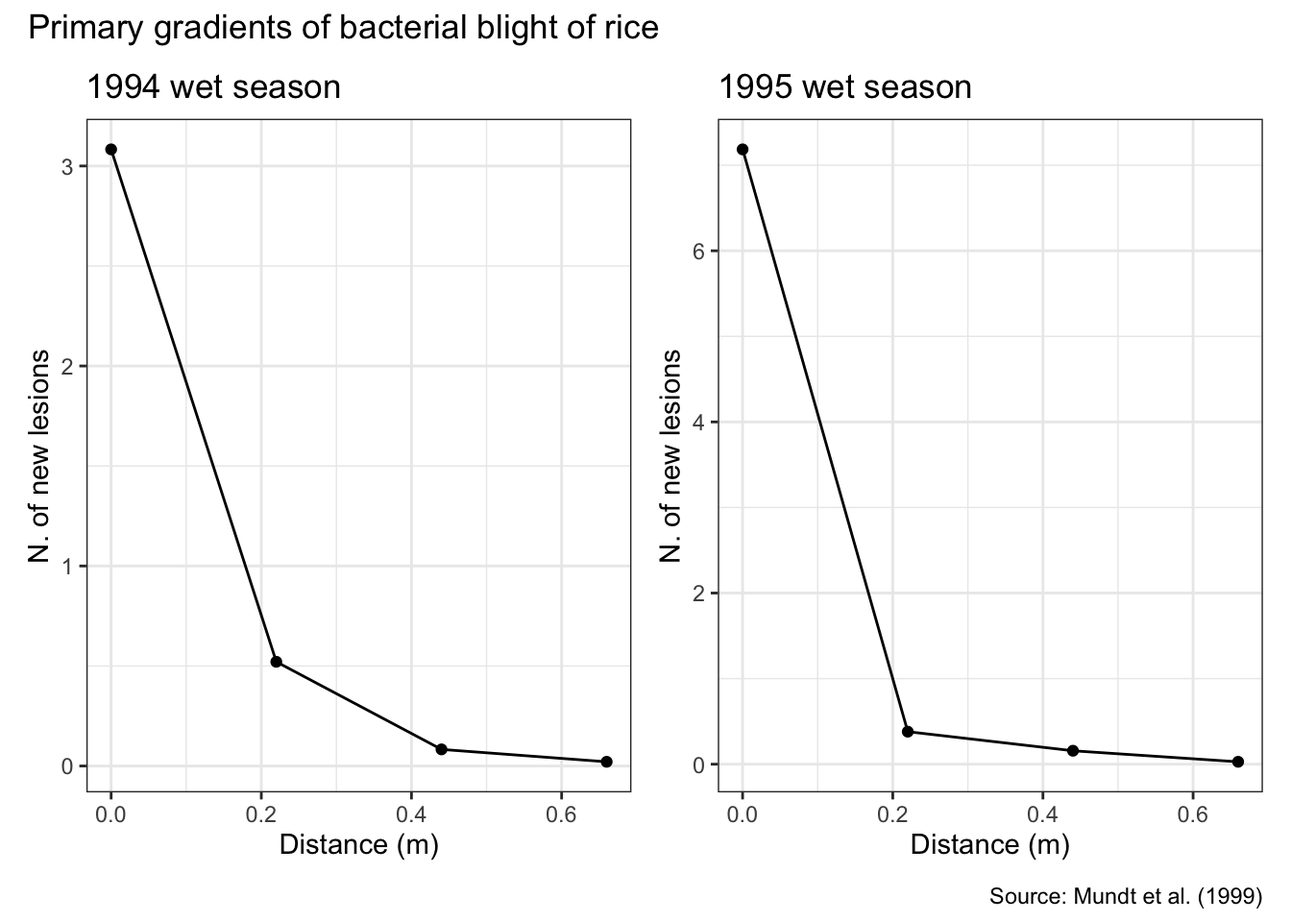
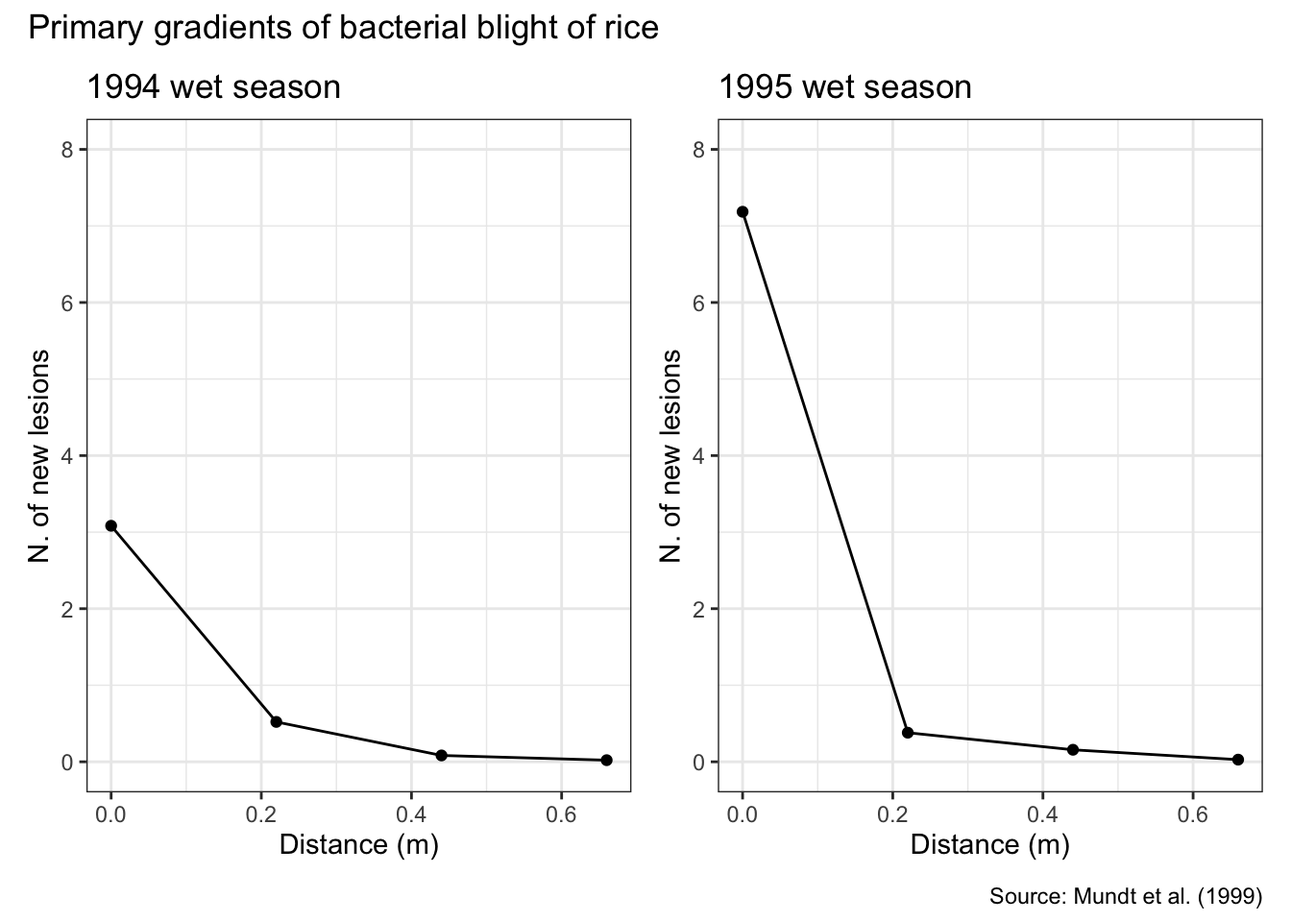
format code

diff --git a/_book/spatial-gradients.html b/_book/spatial-gradients.html
@@ -356,49 +356,52 @@ gtag('config', 'G-5T7SZYQV79', { 'anonymize_ip': true});
 <span id="cb1-9"><a href="#cb1-9" aria-hidden="true" tabindex="-1"></a>  <span class="fu">ggplot</span>(<span class="fu">aes</span>(d, y4))<span class="sc">+</span></span>
 <span id="cb1-10"><a href="#cb1-10" aria-hidden="true" tabindex="-1"></a>  <span class="fu">geom_point</span>()<span class="sc">+</span></span>
 <span id="cb1-11"><a href="#cb1-11" aria-hidden="true" tabindex="-1"></a>  <span class="fu">geom_line</span>()<span class="sc">+</span></span>
-<span id="cb1-12"><a href="#cb1-12" aria-hidden="true" tabindex="-1"></a>  <span class="fu">labs</span>(<span class="at">y =</span> <span class="st">"N. of new lesions"</span>,</span>
-<span id="cb1-13"><a href="#cb1-13" aria-hidden="true" tabindex="-1"></a>       <span class="at">x =</span> <span class="st">"Distance (m)"</span>,</span>
-<span id="cb1-14"><a href="#cb1-14" aria-hidden="true" tabindex="-1"></a>       <span class="at">title =</span> <span class="st">"1994 wet season"</span>)</span>
-<span id="cb1-15"><a href="#cb1-15" aria-hidden="true" tabindex="-1"></a></span>
-<span id="cb1-16"><a href="#cb1-16" aria-hidden="true" tabindex="-1"></a>g2 <span class="ot">&lt;-</span> xo <span class="sc">|&gt;</span> </span>
-<span id="cb1-17"><a href="#cb1-17" aria-hidden="true" tabindex="-1"></a>  <span class="fu">ggplot</span>(<span class="fu">aes</span>(d, y5))<span class="sc">+</span></span>
-<span id="cb1-18"><a href="#cb1-18" aria-hidden="true" tabindex="-1"></a>  <span class="fu">geom_point</span>()<span class="sc">+</span></span>
-<span id="cb1-19"><a href="#cb1-19" aria-hidden="true" tabindex="-1"></a>  <span class="fu">geom_line</span>()<span class="sc">+</span></span>
-<span id="cb1-20"><a href="#cb1-20" aria-hidden="true" tabindex="-1"></a>  <span class="fu">labs</span>(<span class="at">y =</span> <span class="st">"N. of new lesions"</span>,</span>
-<span id="cb1-21"><a href="#cb1-21" aria-hidden="true" tabindex="-1"></a>       <span class="at">x =</span> <span class="st">"Distance (m)"</span>,</span>
-<span id="cb1-22"><a href="#cb1-22" aria-hidden="true" tabindex="-1"></a>       <span class="at">title =</span> <span class="st">"1995 wet season"</span>)</span>
-<span id="cb1-23"><a href="#cb1-23" aria-hidden="true" tabindex="-1"></a></span>
-<span id="cb1-24"><a href="#cb1-24" aria-hidden="true" tabindex="-1"></a><span class="fu">library</span>(patchwork)</span>
-<span id="cb1-25"><a href="#cb1-25" aria-hidden="true" tabindex="-1"></a>(g1 <span class="sc">|</span> g2) <span class="sc">+</span>  <span class="fu">plot_annotation</span>(</span>
-<span id="cb1-26"><a href="#cb1-26" aria-hidden="true" tabindex="-1"></a>  <span class="at">title =</span> <span class="st">'Primary gradients of bacterial blight of rice'</span>,</span>
-<span id="cb1-27"><a href="#cb1-27" aria-hidden="true" tabindex="-1"></a>  <span class="at">caption =</span> <span class="st">"Source: Mundt et al. (1999)"</span>)</span></code><button title="Copy to Clipboard" class="code-copy-button"><i class="bi"></i></button></pre></div>
+<span id="cb1-12"><a href="#cb1-12" aria-hidden="true" tabindex="-1"></a>  <span class="fu">ylim</span>(<span class="dv">0</span>,<span class="dv">8</span>)<span class="sc">+</span></span>
+<span id="cb1-13"><a href="#cb1-13" aria-hidden="true" tabindex="-1"></a>  <span class="fu">labs</span>(<span class="at">y =</span> <span class="st">"N. of new lesions"</span>,</span>
+<span id="cb1-14"><a href="#cb1-14" aria-hidden="true" tabindex="-1"></a>       <span class="at">x =</span> <span class="st">"Distance (m)"</span>,</span>
+<span id="cb1-15"><a href="#cb1-15" aria-hidden="true" tabindex="-1"></a>       <span class="at">title =</span> <span class="st">"1994 wet season"</span>)</span>
+<span id="cb1-16"><a href="#cb1-16" aria-hidden="true" tabindex="-1"></a></span>
+<span id="cb1-17"><a href="#cb1-17" aria-hidden="true" tabindex="-1"></a>g2 <span class="ot">&lt;-</span> xo <span class="sc">|&gt;</span> </span>
+<span id="cb1-18"><a href="#cb1-18" aria-hidden="true" tabindex="-1"></a>  <span class="fu">ggplot</span>(<span class="fu">aes</span>(d, y5))<span class="sc">+</span></span>
+<span id="cb1-19"><a href="#cb1-19" aria-hidden="true" tabindex="-1"></a>  <span class="fu">geom_point</span>()<span class="sc">+</span></span>
+<span id="cb1-20"><a href="#cb1-20" aria-hidden="true" tabindex="-1"></a>  <span class="fu">geom_line</span>()<span class="sc">+</span></span>
+<span id="cb1-21"><a href="#cb1-21" aria-hidden="true" tabindex="-1"></a>   <span class="fu">ylim</span>(<span class="dv">0</span>,<span class="dv">8</span>)<span class="sc">+</span></span>
+<span id="cb1-22"><a href="#cb1-22" aria-hidden="true" tabindex="-1"></a>  <span class="fu">labs</span>(<span class="at">y =</span> <span class="st">"N. of new lesions"</span>,</span>
+<span id="cb1-23"><a href="#cb1-23" aria-hidden="true" tabindex="-1"></a>       <span class="at">x =</span> <span class="st">"Distance (m)"</span>,</span>
+<span id="cb1-24"><a href="#cb1-24" aria-hidden="true" tabindex="-1"></a>       <span class="at">title =</span> <span class="st">"1995 wet season"</span>)</span>
+<span id="cb1-25"><a href="#cb1-25" aria-hidden="true" tabindex="-1"></a></span>
+<span id="cb1-26"><a href="#cb1-26" aria-hidden="true" tabindex="-1"></a><span class="fu">library</span>(patchwork)</span>
+<span id="cb1-27"><a href="#cb1-27" aria-hidden="true" tabindex="-1"></a>(g1 <span class="sc">|</span> g2) <span class="sc">+</span>  <span class="fu">plot_annotation</span>(</span>
+<span id="cb1-28"><a href="#cb1-28" aria-hidden="true" tabindex="-1"></a>  <span class="at">title =</span> <span class="st">'Primary gradients of bacterial blight of rice'</span>,</span>
+<span id="cb1-29"><a href="#cb1-29" aria-hidden="true" tabindex="-1"></a>  <span class="at">caption =</span> <span class="st">"Source: Mundt et al. (1999)"</span>)</span></code><button title="Copy to Clipboard" class="code-copy-button"><i class="bi"></i></button></pre></div>
 <div class="cell-output-display">
 <p><img src="spatial-gradients_files/figure-html/unnamed-chunk-2-1.png" class="img-fluid" width="672"></p>
 </div>
 </div>
 <p>The second gradient is of stripe rust, caused by <em>Puccinia striiformis</em> f.&nbsp;sp. <em>tritici,</em> on wheat collected in a field experiment at Hermiston in 2002 <span class="citation" data-cites="Sackett2005">(<a href="references.html#ref-Sackett2005" role="doc-biblioref">Sackett and Mundt 2005</a>)</span> and whose data was made freely available <span class="citation" data-cites="mikaberidze2015">(<a href="references.html#ref-mikaberidze2015" role="doc-biblioref">Mikaberidze et al. 2015</a>)</span>. Let’s enter data manually as a tibble format. There are five columns. The first and second are distances in feet and meters, respectively, from the source of infection. The other three columns are measures of stripe rust severity on replicated plots.</p>
 <div class="cell">
-<div class="sourceCode cell-code" id="cb2"><pre class="sourceCode r code-with-copy"><code class="sourceCode r"><span id="cb2-1"><a href="#cb2-1" aria-hidden="true" tabindex="-1"></a>hermiston <span class="ot">&lt;-</span> tibble<span class="sc">::</span><span class="fu">tribble</span>(</span>
-<span id="cb2-2"><a href="#cb2-2" aria-hidden="true" tabindex="-1"></a>               <span class="sc">~</span>dist_f, <span class="sc">~</span>dist_m,  <span class="sc">~</span><span class="st">`</span><span class="at">1</span><span class="st">`</span>,  <span class="sc">~</span><span class="st">`</span><span class="at">2</span><span class="st">`</span>,  <span class="sc">~</span><span class="st">`</span><span class="at">3</span><span class="st">`</span>,</span>
-<span id="cb2-3"><a href="#cb2-3" aria-hidden="true" tabindex="-1"></a>                    0L,       <span class="dv">0</span>,    <span class="dv">65</span>,    <span class="dv">65</span>,    <span class="dv">39</span>,</span>
-<span id="cb2-4"><a href="#cb2-4" aria-hidden="true" tabindex="-1"></a>                    5L,     <span class="fl">1.5</span>,    <span class="dv">35</span>,    <span class="dv">44</span>,   <span class="fl">7.5</span>,</span>
-<span id="cb2-5"><a href="#cb2-5" aria-hidden="true" tabindex="-1"></a>                   10L,       <span class="dv">3</span>,  <span class="fl">21.5</span>,  <span class="fl">14.5</span>,  <span class="fl">1.75</span>,</span>
-<span id="cb2-6"><a href="#cb2-6" aria-hidden="true" tabindex="-1"></a>                   20L,     <span class="fl">6.1</span>,     <span class="dv">8</span>,  <span class="fl">0.75</span>,   <span class="fl">0.2</span>,</span>
-<span id="cb2-7"><a href="#cb2-7" aria-hidden="true" tabindex="-1"></a>                   40L,    <span class="fl">12.2</span>,     <span class="dv">1</span>,  <span class="fl">0.08</span>, <span class="fl">0.025</span>,</span>
-<span id="cb2-8"><a href="#cb2-8" aria-hidden="true" tabindex="-1"></a>                   60L,    <span class="fl">18.3</span>,  <span class="fl">0.25</span>, <span class="fl">0.026</span>, <span class="fl">0.015</span>,</span>
-<span id="cb2-9"><a href="#cb2-9" aria-hidden="true" tabindex="-1"></a>                   80L,    <span class="fl">24.4</span>, <span class="fl">0.035</span>, <span class="fl">0.015</span>, <span class="fl">0.009</span>,</span>
-<span id="cb2-10"><a href="#cb2-10" aria-hidden="true" tabindex="-1"></a>                  100L,    <span class="fl">30.5</span>,  <span class="fl">0.01</span>, <span class="fl">0.003</span>, <span class="fl">0.008</span>,</span>
-<span id="cb2-11"><a href="#cb2-11" aria-hidden="true" tabindex="-1"></a>                  120L,    <span class="fl">36.6</span>, <span class="fl">0.008</span>, <span class="fl">0.016</span>,  <span class="fl">0.01</span>,</span>
-<span id="cb2-12"><a href="#cb2-12" aria-hidden="true" tabindex="-1"></a>                  140L,    <span class="fl">42.7</span>, <span class="fl">0.003</span>, <span class="fl">0.003</span>,  <span class="fl">0.01</span>,</span>
-<span id="cb2-13"><a href="#cb2-13" aria-hidden="true" tabindex="-1"></a>                  160L,    <span class="fl">48.8</span>, <span class="fl">0.001</span>, <span class="fl">0.006</span>, <span class="fl">0.006</span>,</span>
-<span id="cb2-14"><a href="#cb2-14" aria-hidden="true" tabindex="-1"></a>                  180L,    <span class="fl">54.9</span>, <span class="fl">0.001</span>, <span class="fl">0.002</span>, <span class="fl">0.002</span>,</span>
-<span id="cb2-15"><a href="#cb2-15" aria-hidden="true" tabindex="-1"></a>                  200L,      <span class="dv">61</span>, <span class="fl">0.001</span>, <span class="fl">0.003</span>, <span class="fl">0.004</span>,</span>
-<span id="cb2-16"><a href="#cb2-16" aria-hidden="true" tabindex="-1"></a>                  220L,    <span class="fl">67.1</span>, <span class="fl">0.001</span>, <span class="fl">0.003</span>, <span class="fl">0.002</span>,</span>
-<span id="cb2-17"><a href="#cb2-17" aria-hidden="true" tabindex="-1"></a>                  240L,    <span class="fl">73.2</span>, <span class="fl">0.001</span>, <span class="fl">0.001</span>,     <span class="dv">0</span>,</span>
-<span id="cb2-18"><a href="#cb2-18" aria-hidden="true" tabindex="-1"></a>                  260L,    <span class="fl">79.2</span>, <span class="fl">0.001</span>, <span class="fl">0.002</span>,     <span class="dv">0</span>,</span>
-<span id="cb2-19"><a href="#cb2-19" aria-hidden="true" tabindex="-1"></a>                  280L,    <span class="fl">85.3</span>, <span class="fl">0.001</span>, <span class="fl">0.001</span>,     <span class="dv">0</span>,</span>
-<span id="cb2-20"><a href="#cb2-20" aria-hidden="true" tabindex="-1"></a>                  300L,    <span class="fl">91.4</span>, <span class="fl">0.001</span>, <span class="fl">0.001</span>, <span class="fl">0.001</span></span>
-<span id="cb2-21"><a href="#cb2-21" aria-hidden="true" tabindex="-1"></a>               )</span></code><button title="Copy to Clipboard" class="code-copy-button"><i class="bi"></i></button></pre></div>
+<div class="sourceCode cell-code" id="cb2"><pre class="sourceCode r code-with-copy"><code class="sourceCode r"><span id="cb2-1"><a href="#cb2-1" aria-hidden="true" tabindex="-1"></a>hermiston <span class="ot">&lt;-</span> </span>
+<span id="cb2-2"><a href="#cb2-2" aria-hidden="true" tabindex="-1"></a>  tibble<span class="sc">::</span><span class="fu">tribble</span>(</span>
+<span id="cb2-3"><a href="#cb2-3" aria-hidden="true" tabindex="-1"></a>  <span class="sc">~</span>dist_f, <span class="sc">~</span>dist_m,  <span class="sc">~</span><span class="st">`</span><span class="at">1</span><span class="st">`</span>,  <span class="sc">~</span><span class="st">`</span><span class="at">2</span><span class="st">`</span>,  <span class="sc">~</span><span class="st">`</span><span class="at">3</span><span class="st">`</span>,</span>
+<span id="cb2-4"><a href="#cb2-4" aria-hidden="true" tabindex="-1"></a>  <span class="dv">0</span>,       <span class="dv">0</span>,    <span class="dv">65</span>,    <span class="dv">65</span>,    <span class="dv">39</span>,</span>
+<span id="cb2-5"><a href="#cb2-5" aria-hidden="true" tabindex="-1"></a>  <span class="dv">5</span>,     <span class="fl">1.5</span>,    <span class="dv">35</span>,    <span class="dv">44</span>,   <span class="fl">7.5</span>,</span>
+<span id="cb2-6"><a href="#cb2-6" aria-hidden="true" tabindex="-1"></a>  <span class="dv">10</span>,       <span class="dv">3</span>,  <span class="fl">21.5</span>,  <span class="fl">14.5</span>,  <span class="fl">1.75</span>,</span>
+<span id="cb2-7"><a href="#cb2-7" aria-hidden="true" tabindex="-1"></a>  <span class="dv">20</span>,     <span class="fl">6.1</span>,     <span class="dv">8</span>,  <span class="fl">0.75</span>,   <span class="fl">0.2</span>,</span>
+<span id="cb2-8"><a href="#cb2-8" aria-hidden="true" tabindex="-1"></a>  <span class="dv">40</span>,    <span class="fl">12.2</span>,     <span class="dv">1</span>,  <span class="fl">0.08</span>, <span class="fl">0.025</span>,</span>
+<span id="cb2-9"><a href="#cb2-9" aria-hidden="true" tabindex="-1"></a>  <span class="dv">60</span>,    <span class="fl">18.3</span>,  <span class="fl">0.25</span>, <span class="fl">0.026</span>, <span class="fl">0.015</span>,</span>
+<span id="cb2-10"><a href="#cb2-10" aria-hidden="true" tabindex="-1"></a>  <span class="dv">80</span>,    <span class="fl">24.4</span>, <span class="fl">0.035</span>, <span class="fl">0.015</span>, <span class="fl">0.009</span>,</span>
+<span id="cb2-11"><a href="#cb2-11" aria-hidden="true" tabindex="-1"></a>  <span class="dv">100</span>,    <span class="fl">30.5</span>,  <span class="fl">0.01</span>, <span class="fl">0.003</span>, <span class="fl">0.008</span>,</span>
+<span id="cb2-12"><a href="#cb2-12" aria-hidden="true" tabindex="-1"></a>  <span class="dv">120</span>,    <span class="fl">36.6</span>, <span class="fl">0.008</span>, <span class="fl">0.016</span>,  <span class="fl">0.01</span>,</span>
+<span id="cb2-13"><a href="#cb2-13" aria-hidden="true" tabindex="-1"></a>  <span class="dv">140</span>,    <span class="fl">42.7</span>, <span class="fl">0.003</span>, <span class="fl">0.003</span>,  <span class="fl">0.01</span>,</span>
+<span id="cb2-14"><a href="#cb2-14" aria-hidden="true" tabindex="-1"></a>  <span class="dv">160</span>,    <span class="fl">48.8</span>, <span class="fl">0.001</span>, <span class="fl">0.006</span>, <span class="fl">0.006</span>,</span>
+<span id="cb2-15"><a href="#cb2-15" aria-hidden="true" tabindex="-1"></a>  <span class="dv">180</span>,    <span class="fl">54.9</span>, <span class="fl">0.001</span>, <span class="fl">0.002</span>, <span class="fl">0.002</span>,</span>
+<span id="cb2-16"><a href="#cb2-16" aria-hidden="true" tabindex="-1"></a>  <span class="dv">200</span>,      <span class="dv">61</span>, <span class="fl">0.001</span>, <span class="fl">0.003</span>, <span class="fl">0.004</span>,</span>
+<span id="cb2-17"><a href="#cb2-17" aria-hidden="true" tabindex="-1"></a>  <span class="dv">220</span>,    <span class="fl">67.1</span>, <span class="fl">0.001</span>, <span class="fl">0.003</span>, <span class="fl">0.002</span>,</span>
+<span id="cb2-18"><a href="#cb2-18" aria-hidden="true" tabindex="-1"></a>  <span class="dv">240</span>,    <span class="fl">73.2</span>, <span class="fl">0.001</span>, <span class="fl">0.001</span>,     <span class="dv">0</span>,</span>
+<span id="cb2-19"><a href="#cb2-19" aria-hidden="true" tabindex="-1"></a>  <span class="dv">260</span>,    <span class="fl">79.2</span>, <span class="fl">0.001</span>, <span class="fl">0.002</span>,     <span class="dv">0</span>,</span>
+<span id="cb2-20"><a href="#cb2-20" aria-hidden="true" tabindex="-1"></a>  <span class="dv">280</span>,    <span class="fl">85.3</span>, <span class="fl">0.001</span>, <span class="fl">0.001</span>,     <span class="dv">0</span>,</span>
+<span id="cb2-21"><a href="#cb2-21" aria-hidden="true" tabindex="-1"></a>  <span class="dv">300</span>,    <span class="fl">91.4</span>, <span class="fl">0.001</span>, <span class="fl">0.001</span>, <span class="fl">0.001</span></span>
+<span id="cb2-22"><a href="#cb2-22" aria-hidden="true" tabindex="-1"></a>  )</span></code><button title="Copy to Clipboard" class="code-copy-button"><i class="bi"></i></button></pre></div>
 </div>
 <div class="cell">
 <div class="sourceCode cell-code" id="cb3"><pre class="sourceCode r code-with-copy"><code class="sourceCode r"><span id="cb3-1"><a href="#cb3-1" aria-hidden="true" tabindex="-1"></a><span class="fu">library</span>(tidyverse)</span>
@@ -499,38 +502,39 @@ gtag('config', 'G-5T7SZYQV79', { 'anonymize_ip': true});
 <p>The resulting gradients can be classified in two types: primary or secondary. The primary gradient originates only from the initial focus, while the secondary gradient originates from the movement of inoculum produced at previously infected (due to primary gradients) plants to other plants at increasing distances from the source. It is expected that a mix of both kinds of gradients exists as the disease increases over time.</p>
 <p>As an example of primary and secondary gradients, let’s visualize the gradients of Septoria leaf spot, caused by <em>Septoria lycopersici</em>, on tomato <span class="citation" data-cites="parker1997">(<a href="references.html#ref-parker1997" role="doc-biblioref">Parker et al. 1997</a>)</span>. The gradients were measured during two times, thus enabling a comparison of primary and secondary dispersal/disease gradients. More details of the study and experimental approach were provided in <a href="https://www.apsnet.org/edcenter/disimpactmngmnt/topc/EcologyAndEpidemiologyInR/ModelingDispersalGradients/Pages/PrimaryandSecondaryGradients.aspx">this tutorial.</a> The data is entered below as a tribble and the plot produced using g<em>gplot2</em>.</p>
 <div class="cell">
-<div class="sourceCode cell-code" id="cb5"><pre class="sourceCode r code-with-copy"><code class="sourceCode r"><span id="cb5-1"><a href="#cb5-1" aria-hidden="true" tabindex="-1"></a>septoria <span class="ot">&lt;-</span> tibble<span class="sc">::</span><span class="fu">tribble</span>(</span>
-<span id="cb5-2"><a href="#cb5-2" aria-hidden="true" tabindex="-1"></a>                <span class="sc">~</span>d, <span class="sc">~</span>date1, <span class="sc">~</span>date4,</span>
-<span id="cb5-3"><a href="#cb5-3" aria-hidden="true" tabindex="-1"></a>               <span class="dv">60</span>,    <span class="dv">75</span>,    <span class="dv">87</span>,</span>
-<span id="cb5-4"><a href="#cb5-4" aria-hidden="true" tabindex="-1"></a>              <span class="dv">120</span>,    <span class="dv">40</span>,    <span class="dv">78</span>,</span>
-<span id="cb5-5"><a href="#cb5-5" aria-hidden="true" tabindex="-1"></a>              <span class="dv">180</span>,    <span class="dv">30</span>,    <span class="dv">68</span>,</span>
-<span id="cb5-6"><a href="#cb5-6" aria-hidden="true" tabindex="-1"></a>              <span class="dv">240</span>,    <span class="dv">20</span>,    <span class="dv">62</span>,</span>
-<span id="cb5-7"><a href="#cb5-7" aria-hidden="true" tabindex="-1"></a>              <span class="dv">300</span>,    <span class="dv">15</span>,    <span class="dv">50</span>,</span>
-<span id="cb5-8"><a href="#cb5-8" aria-hidden="true" tabindex="-1"></a>              <span class="dv">360</span>,    <span class="dv">12</span>,    <span class="dv">27</span>,</span>
-<span id="cb5-9"><a href="#cb5-9" aria-hidden="true" tabindex="-1"></a>              <span class="dv">420</span>,    <span class="dv">10</span>,    <span class="dv">32</span>,</span>
-<span id="cb5-10"><a href="#cb5-10" aria-hidden="true" tabindex="-1"></a>              <span class="dv">480</span>,    <span class="dv">12</span>,    <span class="dv">12</span>,</span>
-<span id="cb5-11"><a href="#cb5-11" aria-hidden="true" tabindex="-1"></a>              <span class="dv">540</span>,     <span class="dv">8</span>,    <span class="dv">13</span>,</span>
-<span id="cb5-12"><a href="#cb5-12" aria-hidden="true" tabindex="-1"></a>              <span class="dv">600</span>,     <span class="dv">5</span>,     <span class="dv">5</span>,</span>
-<span id="cb5-13"><a href="#cb5-13" aria-hidden="true" tabindex="-1"></a>              <span class="dv">660</span>,     <span class="dv">4</span>,     <span class="dv">4</span></span>
-<span id="cb5-14"><a href="#cb5-14" aria-hidden="true" tabindex="-1"></a>              )</span>
-<span id="cb5-15"><a href="#cb5-15" aria-hidden="true" tabindex="-1"></a></span>
-<span id="cb5-16"><a href="#cb5-16" aria-hidden="true" tabindex="-1"></a>septoria <span class="sc">|&gt;</span> </span>
-<span id="cb5-17"><a href="#cb5-17" aria-hidden="true" tabindex="-1"></a>  <span class="fu">pivot_longer</span>(<span class="dv">2</span><span class="sc">:</span><span class="dv">3</span>, <span class="at">names_to =</span> <span class="st">"date"</span>, </span>
-<span id="cb5-18"><a href="#cb5-18" aria-hidden="true" tabindex="-1"></a>               <span class="at">values_to =</span> <span class="st">"defoliation"</span>) <span class="sc">|&gt;</span> </span>
-<span id="cb5-19"><a href="#cb5-19" aria-hidden="true" tabindex="-1"></a>  <span class="fu">ggplot</span>(<span class="fu">aes</span>(d, defoliation, <span class="at">color =</span> date))<span class="sc">+</span></span>
-<span id="cb5-20"><a href="#cb5-20" aria-hidden="true" tabindex="-1"></a>  <span class="fu">geom_point</span>()<span class="sc">+</span></span>
-<span id="cb5-21"><a href="#cb5-21" aria-hidden="true" tabindex="-1"></a>  <span class="fu">geom_line</span>()<span class="sc">+</span></span>
-<span id="cb5-22"><a href="#cb5-22" aria-hidden="true" tabindex="-1"></a>  <span class="fu">scale_color_colorblind</span>()<span class="sc">+</span></span>
-<span id="cb5-23"><a href="#cb5-23" aria-hidden="true" tabindex="-1"></a>  <span class="fu">annotate</span>(<span class="at">geom =</span> <span class="st">"text"</span>, <span class="at">x =</span> <span class="dv">200</span>, <span class="at">y =</span> <span class="dv">12</span>, </span>
-<span id="cb5-24"><a href="#cb5-24" aria-hidden="true" tabindex="-1"></a>           <span class="at">label =</span> <span class="st">"Primary gradient"</span>, <span class="at">hjust =</span> <span class="st">"left"</span>)<span class="sc">+</span></span>
-<span id="cb5-25"><a href="#cb5-25" aria-hidden="true" tabindex="-1"></a>   <span class="fu">annotate</span>(<span class="at">geom =</span> <span class="st">"text"</span>, <span class="at">x =</span> <span class="dv">200</span>, <span class="at">y =</span> <span class="dv">72</span>, </span>
-<span id="cb5-26"><a href="#cb5-26" aria-hidden="true" tabindex="-1"></a>           <span class="at">label =</span> <span class="st">"Secondary gradient"</span>, <span class="at">hjust =</span> <span class="st">"left"</span>)<span class="sc">+</span></span>
-<span id="cb5-27"><a href="#cb5-27" aria-hidden="true" tabindex="-1"></a>  <span class="fu">labs</span>(<span class="at">title =</span> <span class="st">"Disease gradients"</span>,</span>
-<span id="cb5-28"><a href="#cb5-28" aria-hidden="true" tabindex="-1"></a>       <span class="at">subtitle =</span> <span class="st">"Septoria leaf spot on tomato"</span>,</span>
-<span id="cb5-29"><a href="#cb5-29" aria-hidden="true" tabindex="-1"></a>       <span class="at">x =</span> <span class="st">"Distrance from focus (m)"</span>,</span>
-<span id="cb5-30"><a href="#cb5-30" aria-hidden="true" tabindex="-1"></a>       <span class="at">y =</span> <span class="st">"Percent defoliation"</span>,</span>
-<span id="cb5-31"><a href="#cb5-31" aria-hidden="true" tabindex="-1"></a>       <span class="at">color =</span> <span class="st">"Date"</span>,</span>
-<span id="cb5-32"><a href="#cb5-32" aria-hidden="true" tabindex="-1"></a>       <span class="at">caption =</span> <span class="st">"Parker et al. (1997)"</span>)</span></code><button title="Copy to Clipboard" class="code-copy-button"><i class="bi"></i></button></pre></div>
+<div class="sourceCode cell-code" id="cb5"><pre class="sourceCode r code-with-copy"><code class="sourceCode r"><span id="cb5-1"><a href="#cb5-1" aria-hidden="true" tabindex="-1"></a>septoria <span class="ot">&lt;-</span> </span>
+<span id="cb5-2"><a href="#cb5-2" aria-hidden="true" tabindex="-1"></a>tibble<span class="sc">::</span><span class="fu">tribble</span>(</span>
+<span id="cb5-3"><a href="#cb5-3" aria-hidden="true" tabindex="-1"></a> <span class="sc">~</span>d, <span class="sc">~</span>date1, <span class="sc">~</span>date4,</span>
+<span id="cb5-4"><a href="#cb5-4" aria-hidden="true" tabindex="-1"></a> <span class="dv">60</span>,    <span class="dv">75</span>,    <span class="dv">87</span>,</span>
+<span id="cb5-5"><a href="#cb5-5" aria-hidden="true" tabindex="-1"></a> <span class="dv">120</span>,    <span class="dv">40</span>,    <span class="dv">78</span>,</span>
+<span id="cb5-6"><a href="#cb5-6" aria-hidden="true" tabindex="-1"></a> <span class="dv">180</span>,    <span class="dv">30</span>,    <span class="dv">68</span>,</span>
+<span id="cb5-7"><a href="#cb5-7" aria-hidden="true" tabindex="-1"></a> <span class="dv">240</span>,    <span class="dv">20</span>,    <span class="dv">62</span>,</span>
+<span id="cb5-8"><a href="#cb5-8" aria-hidden="true" tabindex="-1"></a> <span class="dv">300</span>,    <span class="dv">15</span>,    <span class="dv">50</span>,</span>
+<span id="cb5-9"><a href="#cb5-9" aria-hidden="true" tabindex="-1"></a> <span class="dv">360</span>,    <span class="dv">12</span>,    <span class="dv">27</span>,</span>
+<span id="cb5-10"><a href="#cb5-10" aria-hidden="true" tabindex="-1"></a> <span class="dv">420</span>,    <span class="dv">10</span>,    <span class="dv">32</span>,</span>
+<span id="cb5-11"><a href="#cb5-11" aria-hidden="true" tabindex="-1"></a> <span class="dv">480</span>,    <span class="dv">12</span>,    <span class="dv">12</span>,</span>
+<span id="cb5-12"><a href="#cb5-12" aria-hidden="true" tabindex="-1"></a> <span class="dv">540</span>,     <span class="dv">8</span>,    <span class="dv">13</span>,</span>
+<span id="cb5-13"><a href="#cb5-13" aria-hidden="true" tabindex="-1"></a> <span class="dv">600</span>,     <span class="dv">5</span>,     <span class="dv">5</span>,</span>
+<span id="cb5-14"><a href="#cb5-14" aria-hidden="true" tabindex="-1"></a> <span class="dv">660</span>,     <span class="dv">4</span>,     <span class="dv">4</span></span>
+<span id="cb5-15"><a href="#cb5-15" aria-hidden="true" tabindex="-1"></a>              )</span>
+<span id="cb5-16"><a href="#cb5-16" aria-hidden="true" tabindex="-1"></a></span>
+<span id="cb5-17"><a href="#cb5-17" aria-hidden="true" tabindex="-1"></a>septoria <span class="sc">|&gt;</span> </span>
+<span id="cb5-18"><a href="#cb5-18" aria-hidden="true" tabindex="-1"></a>  <span class="fu">pivot_longer</span>(<span class="dv">2</span><span class="sc">:</span><span class="dv">3</span>, <span class="at">names_to =</span> <span class="st">"date"</span>, </span>
+<span id="cb5-19"><a href="#cb5-19" aria-hidden="true" tabindex="-1"></a>               <span class="at">values_to =</span> <span class="st">"defoliation"</span>) <span class="sc">|&gt;</span> </span>
+<span id="cb5-20"><a href="#cb5-20" aria-hidden="true" tabindex="-1"></a>  <span class="fu">ggplot</span>(<span class="fu">aes</span>(d, defoliation, <span class="at">color =</span> date))<span class="sc">+</span></span>
+<span id="cb5-21"><a href="#cb5-21" aria-hidden="true" tabindex="-1"></a>  <span class="fu">geom_point</span>()<span class="sc">+</span></span>
+<span id="cb5-22"><a href="#cb5-22" aria-hidden="true" tabindex="-1"></a>  <span class="fu">geom_line</span>()<span class="sc">+</span></span>
+<span id="cb5-23"><a href="#cb5-23" aria-hidden="true" tabindex="-1"></a>  <span class="fu">scale_color_colorblind</span>()<span class="sc">+</span></span>
+<span id="cb5-24"><a href="#cb5-24" aria-hidden="true" tabindex="-1"></a>  <span class="fu">annotate</span>(<span class="at">geom =</span> <span class="st">"text"</span>, <span class="at">x =</span> <span class="dv">200</span>, <span class="at">y =</span> <span class="dv">12</span>, </span>
+<span id="cb5-25"><a href="#cb5-25" aria-hidden="true" tabindex="-1"></a>           <span class="at">label =</span> <span class="st">"Primary gradient"</span>, <span class="at">hjust =</span> <span class="st">"left"</span>)<span class="sc">+</span></span>
+<span id="cb5-26"><a href="#cb5-26" aria-hidden="true" tabindex="-1"></a>   <span class="fu">annotate</span>(<span class="at">geom =</span> <span class="st">"text"</span>, <span class="at">x =</span> <span class="dv">200</span>, <span class="at">y =</span> <span class="dv">72</span>, </span>
+<span id="cb5-27"><a href="#cb5-27" aria-hidden="true" tabindex="-1"></a>           <span class="at">label =</span> <span class="st">"Secondary gradient"</span>, <span class="at">hjust =</span> <span class="st">"left"</span>)<span class="sc">+</span></span>
+<span id="cb5-28"><a href="#cb5-28" aria-hidden="true" tabindex="-1"></a>  <span class="fu">labs</span>(<span class="at">title =</span> <span class="st">"Disease gradients"</span>,</span>
+<span id="cb5-29"><a href="#cb5-29" aria-hidden="true" tabindex="-1"></a>       <span class="at">subtitle =</span> <span class="st">"Septoria leaf spot on tomato"</span>,</span>
+<span id="cb5-30"><a href="#cb5-30" aria-hidden="true" tabindex="-1"></a>       <span class="at">x =</span> <span class="st">"Distrance from focus (m)"</span>,</span>
+<span id="cb5-31"><a href="#cb5-31" aria-hidden="true" tabindex="-1"></a>       <span class="at">y =</span> <span class="st">"Percent defoliation"</span>,</span>
+<span id="cb5-32"><a href="#cb5-32" aria-hidden="true" tabindex="-1"></a>       <span class="at">color =</span> <span class="st">"Date"</span>,</span>
+<span id="cb5-33"><a href="#cb5-33" aria-hidden="true" tabindex="-1"></a>       <span class="at">caption =</span> <span class="st">"Parker et al. (1997)"</span>)</span></code><button title="Copy to Clipboard" class="code-copy-button"><i class="bi"></i></button></pre></div>
 <div class="cell-output-display">
 <p><img src="spatial-gradients_files/figure-html/unnamed-chunk-10-1.png" class="img-fluid" width="672"></p>
 </div>
